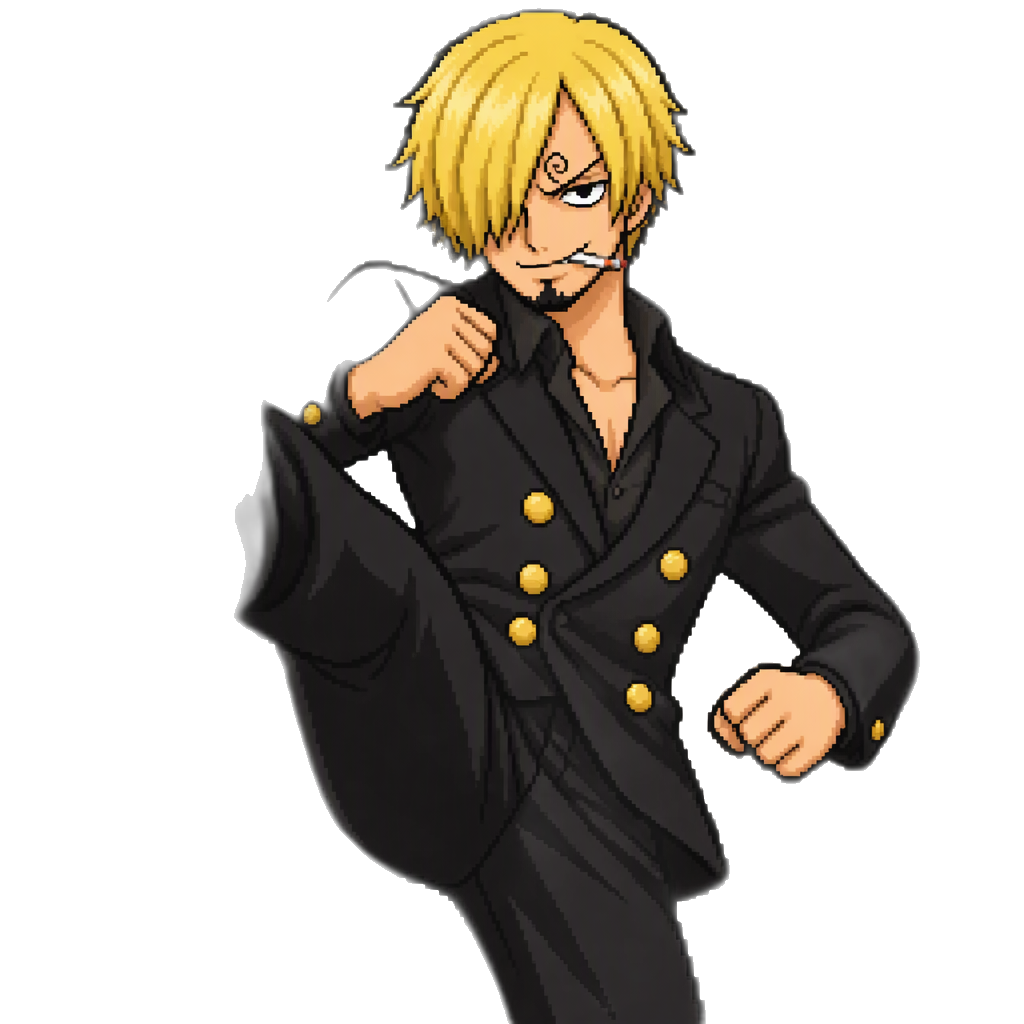
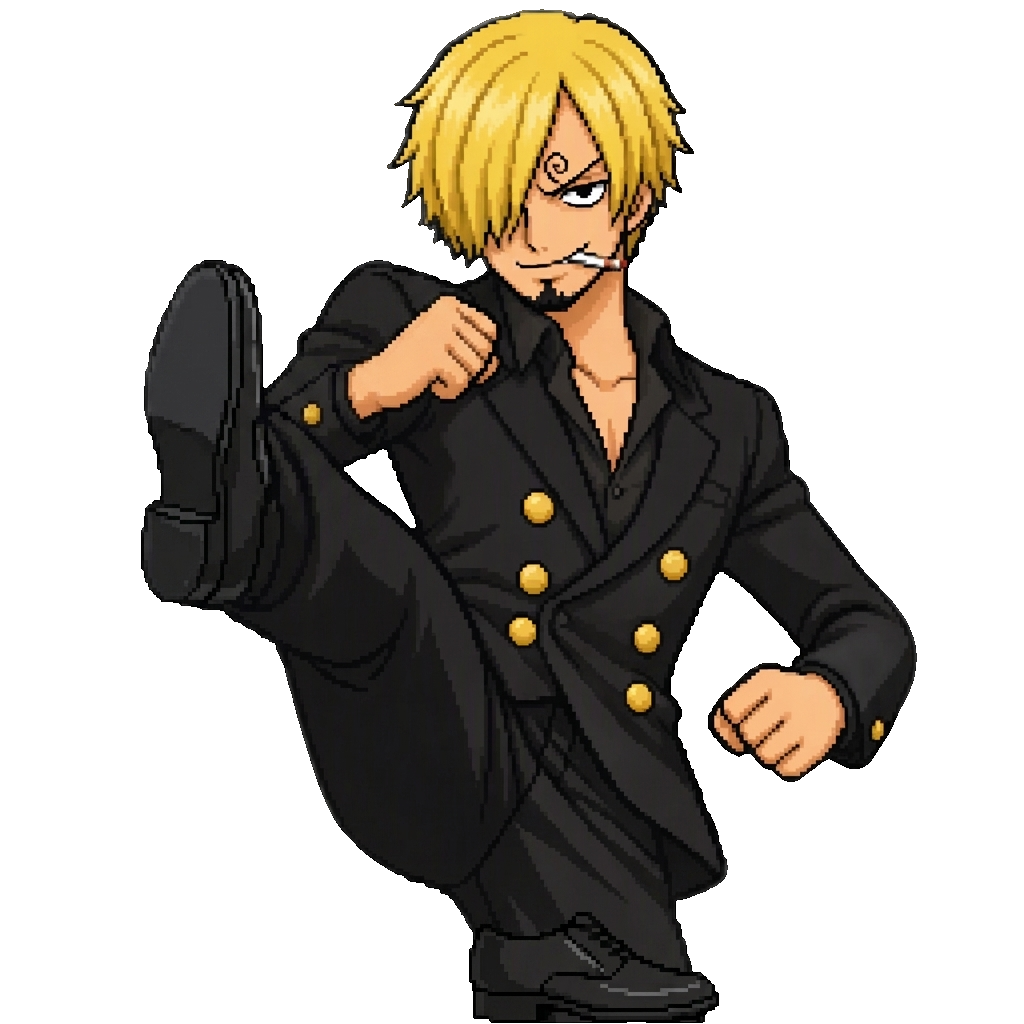
备份本地未提交改动：多来源CORS、nginx/https脚本、char_04修腿素材

diff --git a/server/index.js b/server/index.js
@@ -10,13 +10,19 @@ import dotenv from 'dotenv'
 import { registerGameSocket } from './sockets/gameSocket.js'
 import { sweepRooms, roomsStats } from './rooms.js'
 
-dotenv.config()
+dotenv.config({ override: true })
 
 const PORT = process.env.PORT || 3000
-const CLIENT_URL = process.env.CLIENT_URL || 'http://localhost:5173'
+// CLIENT_URL 支持逗号分隔的多个来源（IP 与域名同时可访问）：
+//   生产：CLIENT_URL=http://43.128.149.78:8010,https://boluodafuwo.duckdns.org
+//   本地开发单值也兼容：http://localhost:5173
+const CLIENT_URLS = (process.env.CLIENT_URL || 'http://localhost:5173')
+  .split(',')
+  .map(s => s.trim())
+  .filter(Boolean)
 
 const app = express()
-app.use(cors({ origin: CLIENT_URL }))
+app.use(cors({ origin: CLIENT_URLS }))
 app.use(express.json())
 
 // 健康检查 / hello
@@ -90,7 +96,7 @@ if (fs.existsSync(path.join(distDir, 'index.html'))) {
 
 const server = http.createServer(app)
 const io = new Server(server, {
-  cors: { origin: CLIENT_URL }
+  cors: { origin: CLIENT_URLS }
 })
 
 // 注册 socket 事件
